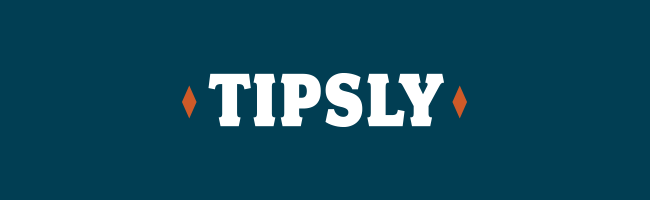
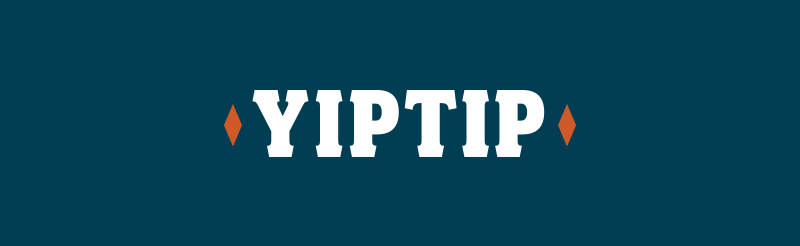
1.316

Changed region(s): [[0.3077, 0.36, 0.7385, 0.66]]

diff --git a/public/404.html b/public/404.html
@@ -3,8 +3,8 @@
   <head>
     <meta charset="utf-8">
     <meta http-equiv="X-UA-Compatible" content="IE=edge,chrome=1">
-    <title>Tipsly</title>
-    <meta name="description" content="The Tipsly app for iPhone is a social network that lets you keep in touch with your favorite bartenders.">
+    <title>YipTip</title>
+    <meta name="description" content="The YipTip app for iPhone is a social network that lets you keep in touch with your favorite bartenders.">
     <link href='http://fonts.googleapis.com/css?family=PT+Sans:400,700' rel='stylesheet' type='text/css'>
     <link href="/assets/application.css" media="all" rel="stylesheet" type="text/css" />
     <script src="/assets/application.js" type="text/javascript"></script>
@@ -15,7 +15,7 @@
       <header class="navbar navbar-fixed-top">
         <nav class="navbar-inner">
           <div class="container">
-            <a href="/" alt="Tipsly" id="logo"></a>
+            <a href="/" alt="YipTip" id="logo"></a>
           </div>
         </nav>
       </header>
@@ -35,10 +35,10 @@
        <div class="container">
           <footer class="footer">
             <div id="footerright">
-              &copy; <script>document.write(new Date().getFullYear())</script> Tipsly All Rights Reserved.  
+              &copy; <script>document.write(new Date().getFullYear())</script> YipTip All Rights Reserved.  
             </div>
             <div id="footerleft">
-              <a href="/contact">Contact the Tipsly team</a> anytime with questions or comments.
+              <a href="/contact">Contact the YipTip team</a> anytime with questions or comments.
             </div>
         </footer>
       </div> 

diff --git a/public/422.html b/public/422.html
@@ -3,8 +3,8 @@
   <head>
     <meta charset="utf-8">
     <meta http-equiv="X-UA-Compatible" content="IE=edge,chrome=1">
-    <title>Tipsly</title>
-    <meta name="description" content="The Tipsly app for iPhone is a social network that lets you keep in touch with your favorite bartenders.">
+    <title>YipTip</title>
+    <meta name="description" content="The YipTip app for iPhone is a social network that lets you keep in touch with your favorite bartenders.">
     <link href='http://fonts.googleapis.com/css?family=PT+Sans:400,700' rel='stylesheet' type='text/css'>
     <link href="/assets/application.css" media="all" rel="stylesheet" type="text/css" />
     <script src="/assets/application.js" type="text/javascript"></script>
@@ -15,7 +15,7 @@
       <header class="navbar navbar-fixed-top">
         <nav class="navbar-inner">
           <div class="container">
-            <a href="/" alt="Tipsly" id="logo"></a>
+            <a href="/" alt="YipTip" id="logo"></a>
           </div>
         </nav>
       </header>
@@ -35,10 +35,10 @@
        <div class="container">
           <footer class="footer">
             <div id="footerright">
-              &copy; <script>document.write(new Date().getFullYear())</script> Tipsly All Rights Reserved.  
+              &copy; <script>document.write(new Date().getFullYear())</script> YipTip All Rights Reserved.  
             </div>
             <div id="footerleft">
-              <a href="/contact">Contact the Tipsly team</a> anytime with questions or comments.
+              <a href="/contact">Contact the YipTip team</a> anytime with questions or comments.
             </div>
         </footer>
       </div> 

diff --git a/public/500.html b/public/500.html
@@ -3,8 +3,8 @@
   <head>
     <meta charset="utf-8">
     <meta http-equiv="X-UA-Compatible" content="IE=edge,chrome=1">
-    <title>Tipsly</title>
-    <meta name="description" content="The Tipsly app for iPhone is a social network that lets you keep in touch with your favorite bartenders.">
+    <title>YipTip</title>
+    <meta name="description" content="The YipTip app for iPhone is a social network that lets you keep in touch with your favorite bartenders.">
     <link href='http://fonts.googleapis.com/css?family=PT+Sans:400,700' rel='stylesheet' type='text/css'>
     <link href="/assets/application.css" media="all" rel="stylesheet" type="text/css" />
     <script src="/assets/application.js" type="text/javascript"></script>
@@ -15,7 +15,7 @@
       <header class="navbar navbar-fixed-top">
         <nav class="navbar-inner">
           <div class="container">
-            <a href="/" alt="Tipsly" id="logo"></a>
+            <a href="/" alt="YipTip" id="logo"></a>
           </div>
         </nav>
       </header>
@@ -35,10 +35,10 @@
        <div class="container">
           <footer class="footer">
             <div id="footerright">
-              &copy; <script>document.write(new Date().getFullYear())</script> Tipsly All Rights Reserved.  
+              &copy; <script>document.write(new Date().getFullYear())</script> YipTip All Rights Reserved.  
             </div>
             <div id="footerleft">
-              <a href="/contact">Contact the Tipsly team</a> anytime with questions or comments.
+              <a href="/contact">Contact the YipTip team</a> anytime with questions or comments.
             </div>
         </footer>
       </div> 

diff --git a/app/controllers/users_controller.rb b/app/controllers/users_controller.rb
@@ -590,10 +590,10 @@ class UsersController < ApplicationController
     @message[:body] = "
     <p>Hello #{@email}!</p>
     <br/>
-    <p>#{@name} has invited you to try out Tipsly, a new app sthat lets you stay in touch with your favorite bartenders.</p>
+    <p>#{@name} has invited you to try out YipTip, a new app sthat lets you stay in touch with your favorite bartenders.</p>
     <p>You and your friends can see who's working where and discover new drinking destinations. Bartenders can build their following and promote their latest concoction.</p>
     <br/>
-    <p>Learn more and download the app for iPhone at <a href='https://www.goodtimesapp.co'>goodtimesapp.co</a>.</p>"
+    <p>Learn more and download the app for iPhone at <a href='https://www.yiptip.com'>yiptip.com</a>.</p>"
 
     # send email
     @sendmessage = Message.new(@message)

diff --git a/config/routes.rb b/config/routes.rb
@@ -112,6 +112,7 @@ Rails3BootstrapDeviseCancan::Application.routes.draw do
   match 'list/subscribe' => 'static_pages#subscribe', :as => 'subscribe', :via => :get
   match 'list/unsubscribe' => 'static_pages#unsubscribe', :as => 'unsubscribe', :via => :get
   match 'list/confirmed' => 'static_pages#confirmed', :as => 'confirmed', :via => :get
+  match 'nearme' => 'static_pages#nearme', :as => 'nearme', :via => :get
 
   # facebook bot
   get 'bot/webhook' => 'bot#webhook'

diff --git a/config/initializers/devise.rb b/config/initializers/devise.rb
@@ -4,7 +4,7 @@ Devise.setup do |config|
   # ==> Mailer Configuration
   # Configure the e-mail address which will be shown in Devise::Mailer,
   # note that it will be overwritten if you use your own mailer class with default "from" parameter.
-  config.mailer_sender = '"Tipsly" <tipsly@popzenith.com>'
+  config.mailer_sender = '"YipTip" <YipTip@popzenith.com>'
 
   # Configure the class responsible to send e-mails.
   # config.mailer = "Devise::Mailer"

diff --git a/config/environments/production.rb b/config/environments/production.rb
@@ -64,7 +64,7 @@ Rails3BootstrapDeviseCancan::Application.configure do
   # Send deprecation notices to registered listeners
   config.active_support.deprecation = :notify
 
-  config.action_mailer.default_url_options = { :host => 'goodtimesapp.co' }
+  config.action_mailer.default_url_options = { :host => 'yiptip.com' }
   # ActionMailer Config
   # Setup for production - deliveries, no errors raised
   config.action_mailer.delivery_method = :smtp

diff --git a/app/controllers/microposts_controller.rb b/app/controllers/microposts_controller.rb
@@ -124,6 +124,8 @@ class MicropostsController < ApplicationController
     puts '====================== feedlocalpublic'
 
     #@user = User.find(params[:id])
+    #params[:location_id] = 3;
+
     @feed_items = Micropost.feedlocalpublic(params[:location_id]).paginate(page: params[:page], :per_page => 50).includes(:user, :checkin, :likes, :comments, :users)
     respond_to do |format|
       format.html # index.html.erb

diff --git a/app/mailers/notifications_mailer.rb b/app/mailers/notifications_mailer.rb
@@ -1,6 +1,6 @@
 class NotificationsMailer < ActionMailer::Base
 
-  default :from => "Tipsly<tipsly@popzenith.com>"
+  default :from => "YipTip<YipTip@popzenith.com>"
   default :to => "jlnovosad@gmail.com"
 
   def new_message(message)

diff --git a/app/mailers/invitations_mailer.rb b/app/mailers/invitations_mailer.rb
@@ -1,6 +1,6 @@
 class InvitationsMailer < ActionMailer::Base
 
-  default :from => "Tipsly<tipsly@popzenith.com>"
+  default :from => "YipTip<YipTip@popzenith.com>"
 
 
   def new_message(message)
